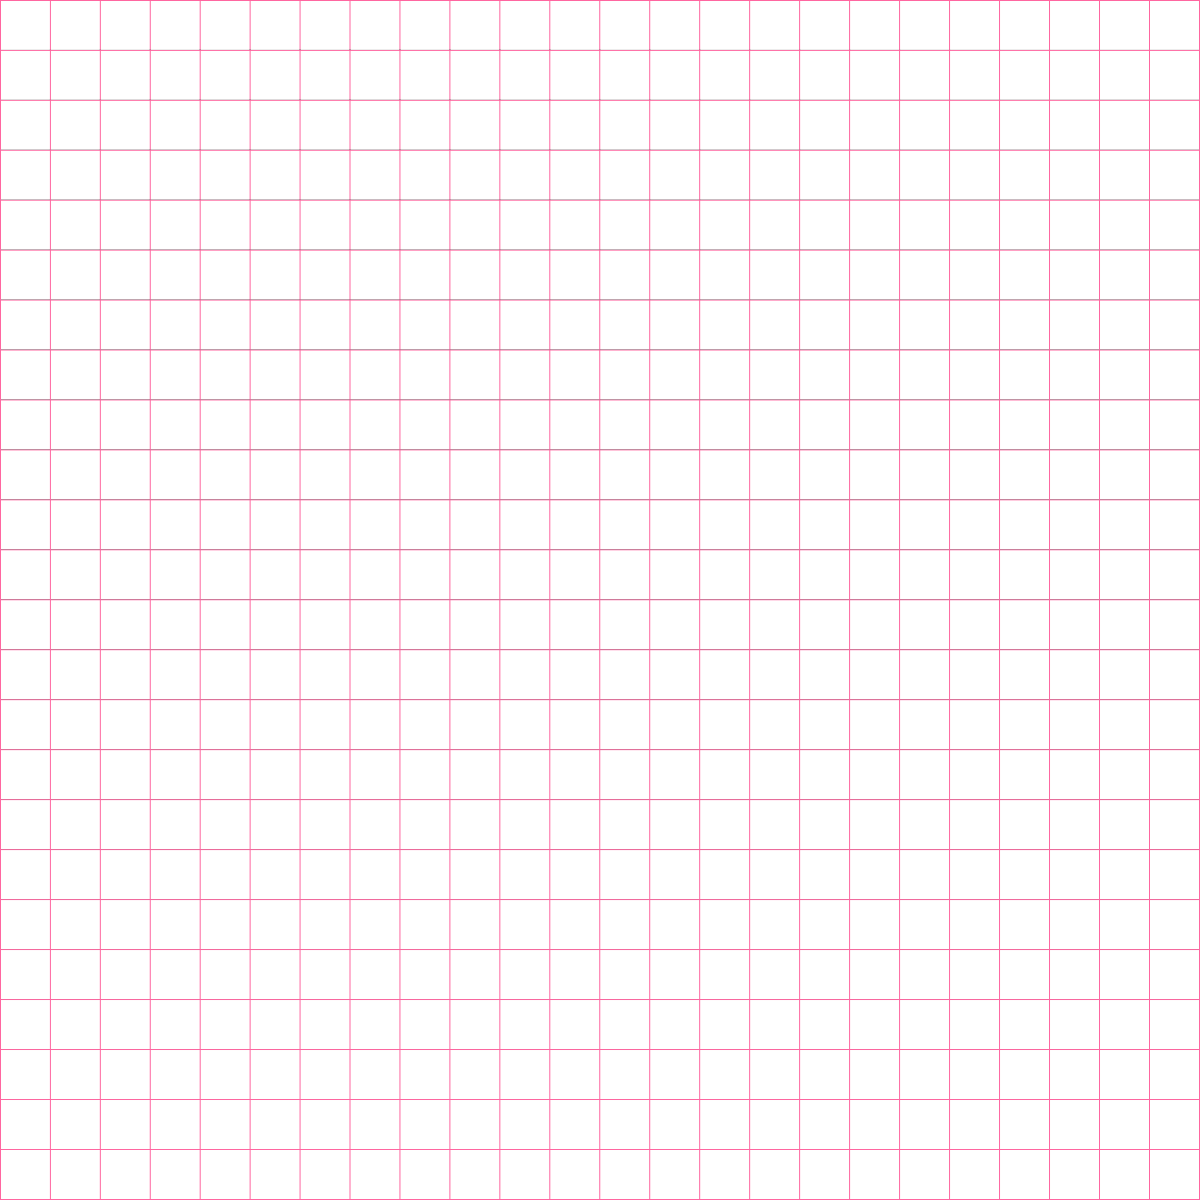
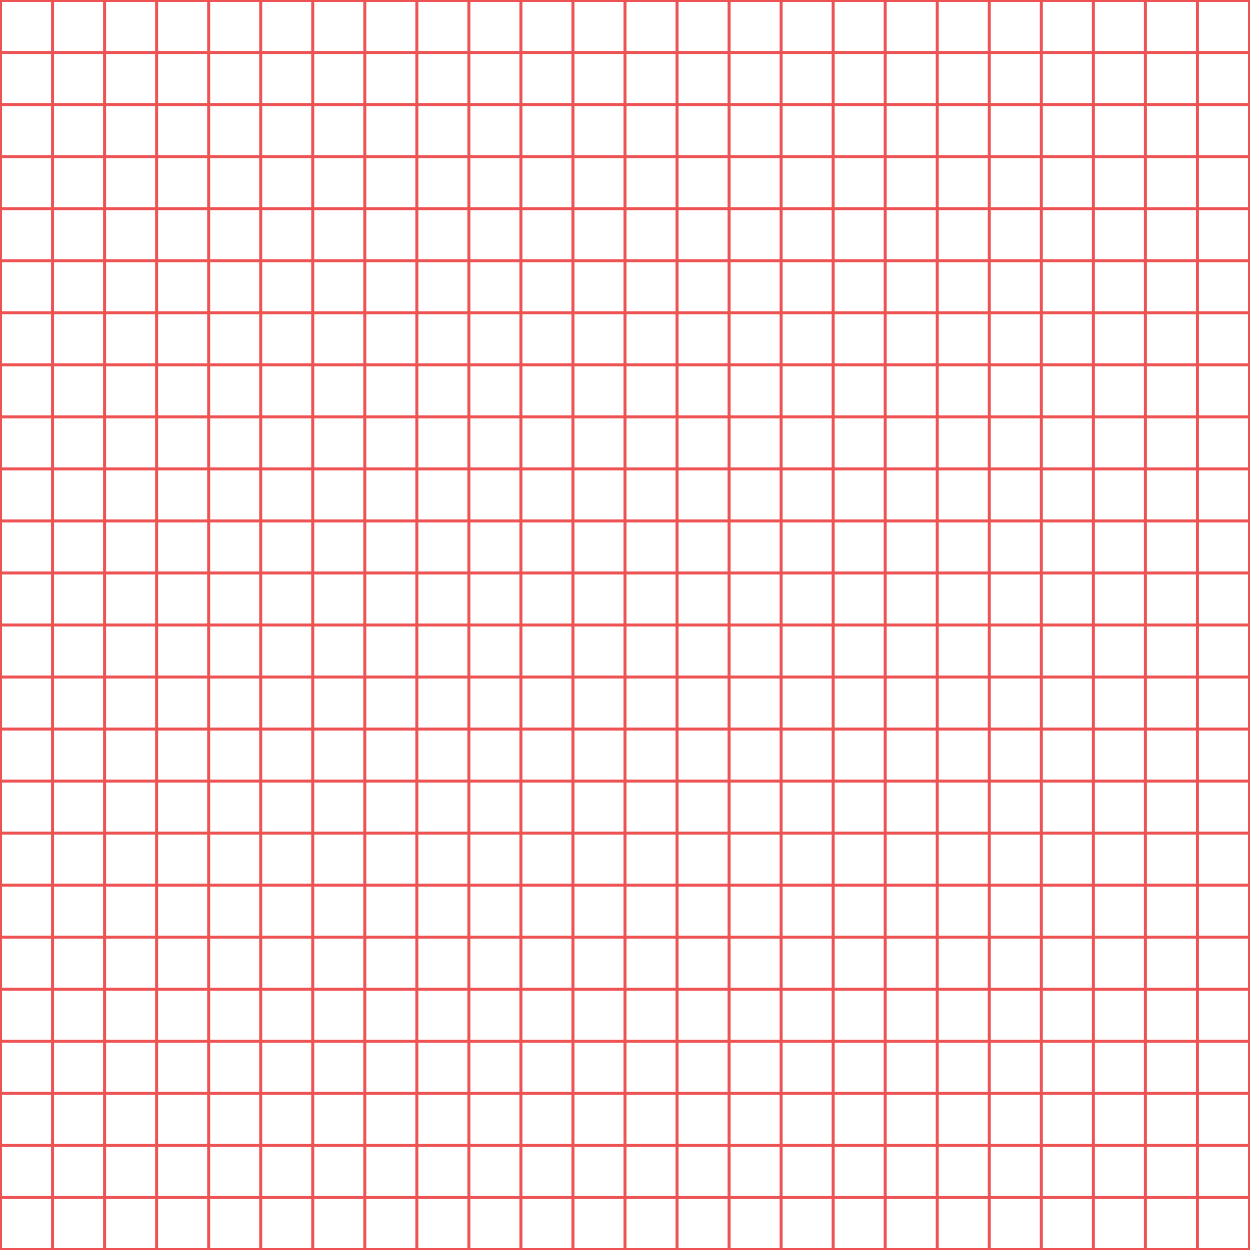
Change colors

Changed region(s): [[0.0, 0.0, 1.0, 1.0], [0.0, 0.0, 0.0925, 0.0925]]

diff --git a/src/components/HeroDivider.tsx b/src/components/HeroDivider.tsx
@@ -8,11 +8,11 @@ function HeroDivider() {
 	);
 	const [visibleCount, setVisibleCount] = useState(0);
 
-	const pinkGlowBoxShadow = `
-		0px 1px 10px rgba(255, 147, 201, 0.5),
-		0px 2px 4px rgba(255, 147, 201, 0.5),
-		0px 4px 8px rgba(255, 147, 201, 0.5),
-		0px 8px 16px rgba(255, 105, 180, 0.5)
+	const glowBoxShadow = `
+		0px 1px 10px rgba(255, 105, 105, 0.5),
+		0px 2px 4px rgba(255, 105, 105, 0.5),
+		0px 4px 8px rgba(255, 105, 105, 0.5),
+		0px 8px 16px rgba(255, 105, 105, 0.5)
   	`;
 	useEffect(() => {
 		const updateCount = () => {
@@ -30,22 +30,22 @@ function HeroDivider() {
 		<div className='relative w-full bg-transparent'>
 			<div className='relative mx-auto'>
 				<div
-					className='grid h-16 gap-1 bg-pink-200 p-1'
+					className='grid h-16 gap-1 bg-red-300 p-1'
 					style={{
 						gridTemplateColumns: `repeat(${visibleCount}, 1fr)`,
-						boxShadow: pinkGlowBoxShadow,
+						boxShadow: glowBoxShadow,
 					}}
 				>
 					{rotations.slice(0, visibleCount).map((_, i) => (
 						<div
 							key={i}
-							className='bg-dark relative h-full'
+							className='bg-secondary relative h-full'
 							style={{
 								boxShadow: `
-									inset 0px 1px 10px rgba(255, 147, 201, 0.5),
-									inset 0px 2px 4px rgba(255, 147, 201, 0.5),
-									inset 0px 4px 8px rgba(255, 147, 201, 0.5),
-									inset 0px 8px 16px rgba(255, 105, 180, 0.5)`,
+									inset 0px 1px 10px rgba(255, 105, 105, 0.5),
+									inset 0px 2px 4px rgba(255, 105, 105, 0.5),
+									inset 0px 4px 8px rgba(255, 105, 105, 0.5),
+									inset 0px 8px 16px rgba(255, 105, 105, 0.5)`,
 							}}
 						/>
 					))}
@@ -68,22 +68,22 @@ function HeroDivider() {
 }
 
 function GlowingBox({ rotation, size }: { rotation: number; size: number }) {
-	const boxShadow = `
-		0px 1px 10px rgba(255, 147, 201, 0.5),
-		0px 2px 4px rgba(255, 147, 201, 0.5),
-		0px 4px 8px rgba(255, 147, 201, 0.5),
-		0px 8px 16px rgba(255, 105, 180, 0.5),
-		inset 0px 1px 10px rgba(255, 147, 201, 0.5),
-		inset 0px 2px 4px rgba(255, 147, 201, 0.5),
-		inset 0px 4px 8px rgba(255, 147, 201, 0.5),
-		inset 0px 8px 16px rgba(255, 105, 180, 0.5)
+	const glowBoxShadow = `
+		0px 1px 10px rgba(255, 105, 105, 0.5),
+		0px 2px 4px rgba(255, 105, 105, 0.5),
+		0px 4px 8px rgba(255, 105, 105, 0.5),
+		0px 8px 16px rgba(255, 105, 105, 0.5),
+		inset 0px 1px 10px rgba(255, 105, 105, 0.5),
+		inset 0px 2px 4px rgba(255, 105, 105, 0.5),
+		inset 0px 4px 8px rgba(255, 105, 105, 0.5),
+		inset 0px 8px 16px rgba(255, 105, 105, 0.5)
   	`;
 	return (
 		<div
-			className='max-w-[${size}] relative aspect-[3/5] w-full border-4 border-pink-200 after:p-[var(--customPadding)]'
+			className='max-w-[${size}] relative aspect-[3/5] w-full border-4 border-red-300'
 			style={{
 				maxWidth: `${size / 4}rem`,
-				boxShadow: boxShadow,
+				boxShadow: glowBoxShadow,
 				transform: `rotate(${rotation ?? 0}deg)`,
 				marginTop: rotation ? `${Math.abs(rotation) * 2}px` : '0px',
 				marginBottom: rotation ? `${-Math.abs(rotation) * 2}px` : '0px',

diff --git a/src/index.css b/src/index.css
@@ -2,29 +2,29 @@
 
 @theme {
 	/* Primary color */
-	--color-primary: #f7609b; /* Pinkish color (Primary) */
+	--color-primary: #720026;
 
 	/* Secondary color */
-	--color-secondary: #2e1f47; /* Dark purple (Secondary) */
+	--color-secondary: #4f000b;
 
 	/* Accent color */
-	--color-accent: #e7a8d1; /* Lighter pink (Accent) */
+	--color-accent: #e7a8d1;
 
 	/* Background and Light colors */
-	--color-light: #f4f4f4; /* Light off-white (Background) */
-	--color-lightest: #fafafa; /* Soft white (Very light background) */
+	--color-light: #f4f4f4;
+	--color-lightest: #fafafa;
 
 	/* Text and Dark colors */
-	--color-dark: #280c1c; /* Dark text color */
+	--color-dark: #2d0006;
 
 	/* Neutral shades */
-	--color-neutral: #b0b0b0; /* Neutral gray */
-	--color-neutral-light: #e0e0e0; /* Lighter neutral gray */
+	--color-neutral: #b0b0b0;
+	--color-neutral-light: #e0e0e0;
 
 	/* Utility colors */
-	--color-warning: #ffcc00; /* Warning yellow */
-	--color-success: #4caf50; /* Success green */
-	--color-error: #f44336; /* Error red */
+	--color-warning: #ffcc00;
+	--color-success: #4caf50;
+	--color-error: #f44336;
 
 	/* Fonts */
 	--font-sans: 'Inter', ui-sans-serif, system-ui, sans-serif;

diff --git a/src/scenes/GridScene.tsx b/src/scenes/GridScene.tsx
@@ -21,7 +21,7 @@ export default function GridScene() {
 			<EffectComposer>
 				<Bloom
 					mipmapBlur
-					intensity={1}
+					intensity={0.5}
 					luminanceThreshold={0.2}
 					luminanceSmoothing={0.9}
 				/>
